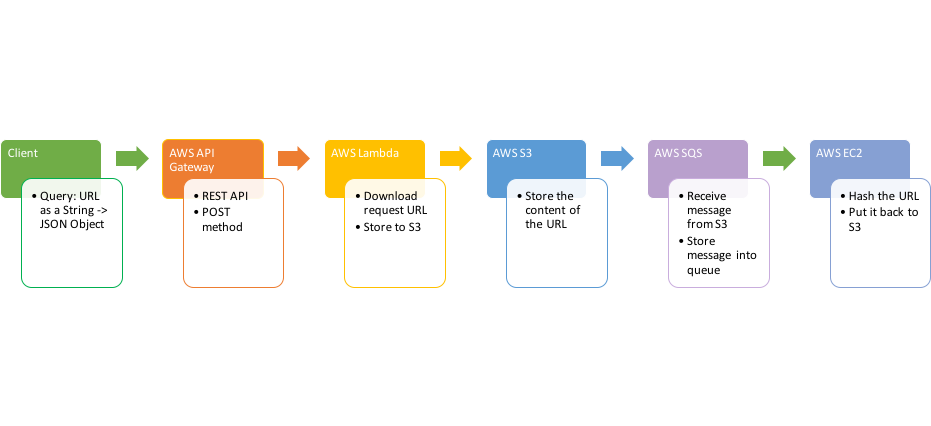
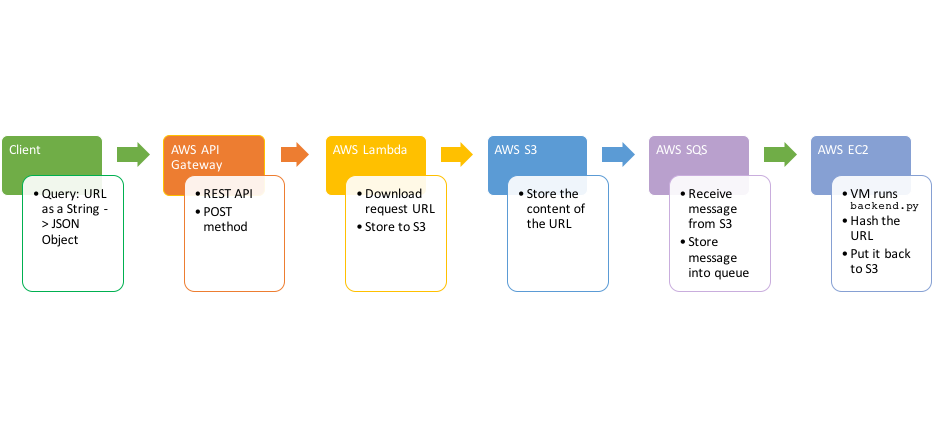
upload all

diff --git a/README.md b/README.md
@@ -7,17 +7,11 @@
 
 ## Techniques
 
-AWS Lambda Function, AWS API Gateway, AWS S3, AWS EC2, Python
+AWS Lambda Function, AWS API Gateway, AWS S3, AWS EC2, AWS SQS, Python
 
 ## How to achieve
 
-1. Query -> API -> Lambda Function
-![Image of api](https://github.com/YJZFlora/AWS-Web-API/blob/master/api_architecture.png)
-
-2. EC2 monitoring
-
-
-## Demo
+![Image of architecture](https://github.com/YJZFlora/AWS-Web-API/blob/master/Architecture.png)
 
 ## Problem and solution
 
@@ -25,25 +19,16 @@ AWS Lambda Function, AWS API Gateway, AWS S3, AWS EC2, Python
 
 **Solution** Enable CORS in AWS API Gateway. 'Access-Control-Allow-Headers' should use the ```*``` wildcard.
 
+**Problem** Running instance in EC2 could charge fees.
+
+**Solution** Shut down EC2 when unneeded.
+
 ## Future work
 
 * Make a front-end for user to input query.
-
 
 ## References
 
 https://docs.aws.amazon.com/apigateway/latest/developerguide/apigateway-getting-started-with-rest-apis.html
 
 https://developer.mozilla.org/en-US/docs/Web/HTTP/CORS/Errors/CORSMissingAllowOrigin
-
-
-如何写Readme的内容：
-目的：描述一下为什么做这个项目？好玩（interest，passion）？学习某个知识点？
-keyword：涉及的技术知识点
-描述一下整个项目的架构
-描述一下有哪些功能
-demo video
-遇到的问题，怎么解决的
-未解决的问题future work
-参考资料链接
-license
